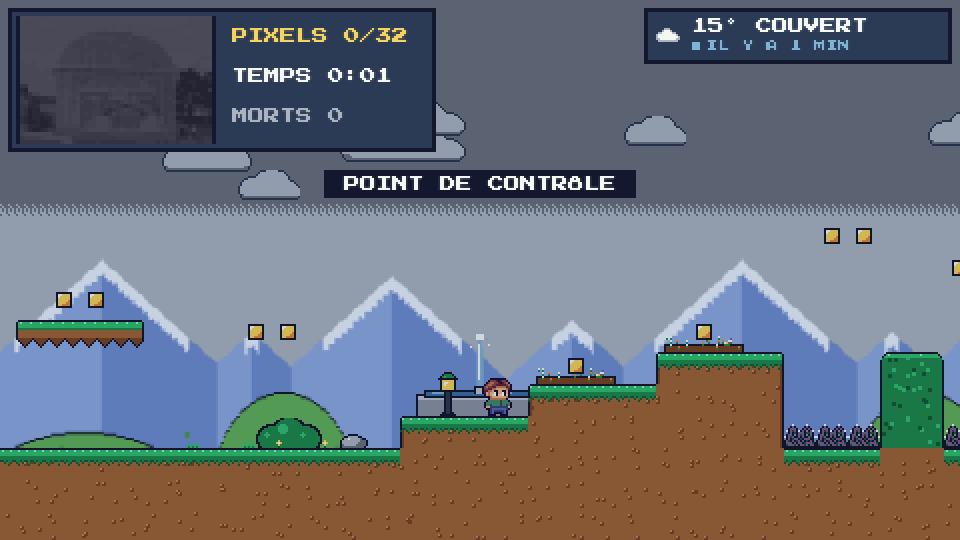
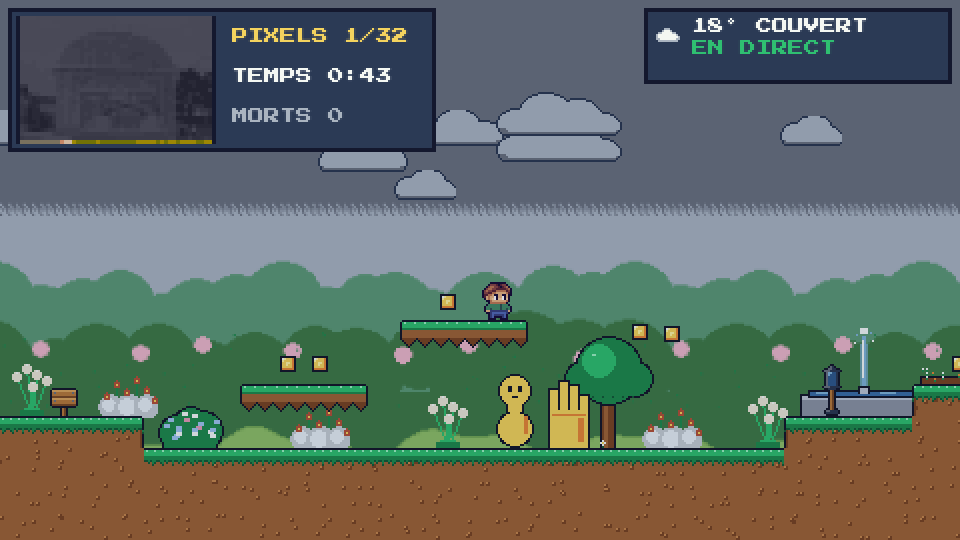
Docs : README et crédits pour les nouveaux décors du Jardin et du Château
- README : nouvelle ligne « décor propre à chaque lieu », numérotation des
  niveaux corrigée (2 Cathédrale, 3 Château), section Stack à jour.
- Captures : niveau-jardin.png remplacée, niveau-chateau.png ajoutée
  (salle des herses), 960×540.
- CREDITS : fond et salles du Château (références de dessin uniquement).

diff --git a/README.md b/README.md
@@ -11,8 +11,8 @@ Un jeu de plateforme pixel art qui suit la **ligne verte** de Nantes. De lieu en
 | La carte du monde | 1 · Jardin des Plantes |
 |---|---|
 | ![Carte du monde](docs/screenshots/carte.png) | ![Niveau du Jardin des Plantes](docs/screenshots/niveau-jardin.png) |
-| **2 · Château** : s'accroupir sous les flèches (ici sous la pluie) | **3 · Cathédrale** : grimper aux colonnes, s'accrocher aux rebords |
-| ![Château sous la pluie](docs/screenshots/niveau-chateau-pluie.png) | ![Cathédrale](docs/screenshots/niveau-cathedrale.png) |
+| **2 · Cathédrale** : grimper aux colonnes, s'accrocher aux rebords | **3 · Château** : du châtelet aux herses à la salle des gardes, en intérieur |
+| ![Cathédrale](docs/screenshots/niveau-cathedrale.png) | ![Château, salle des herses](docs/screenshots/niveau-chateau.png) |
 | **4 · Bouffay** : les étals bougent | **Sur téléphone, en paysage** |
 | ![Bouffay](docs/screenshots/niveau-bouffay.png) | ![Contrôles tactiles](docs/screenshots/mobile-paysage.png) |
 
@@ -32,6 +32,7 @@ Un jeu de plateforme pixel art qui suit la **ligne verte** de Nantes. De lieu en
   | Grand soleil | Jardin : des fleurs deviennent des plateformes (raccourcis) |
 
   Chaque effet est borné : on peut toujours contrer le vent, et chaque niveau reste finissable (vérifié par script sous pluie, vent et neige).
+- **Un décor propre à chaque lieu** : le **Jardin des Plantes** est un vrai parc (rangées d'arbres, magnolias, massifs, hortensias, hautes herbes) où l'on croise des silhouettes colorées inspirées des sculptures de l'été au jardin ; le **Château** se traverse de la cour, avec ses tours de schiste et son logis blanc en tuffeau, jusqu'aux **salles intérieures** (châtelet aux herses, puis salle des gardes avec sa cheminée). Tout est dessiné par code, sans image externe.
 - **Ton avatar** : coiffure, yeux, peau, tenue, chaussures, ou un des 8 modèles.
 
 ## Les 12 lieux
@@ -92,13 +93,13 @@ puis http://localhost:8123. **Mode test** : ajouter `?dev=1` à l'adresse (W : m
 - Niveaux 5 à 12 à venir.
 
 ## Stack
-Phaser 3.90 (inclus en local), JavaScript natif en scripts classiques (pas de build, compatible `file://`), police Press Start 2P, résolution 480×270 agrandie sans lissage. Tout le décor vient de planches de sprites en texte (une lettre = une couleur d'une palette de 35) transformées en textures au démarrage. Déploiement statique sur Vercel.
+Phaser 3.90 (inclus en local), JavaScript natif en scripts classiques (pas de build, compatible `file://`), police Press Start 2P, résolution 480×270 agrandie sans lissage. Le décor vient de planches de sprites en texte (une lettre = une couleur d'une palette de 35) transformées en textures au démarrage ; les fonds du Jardin et du Château, les silhouettes, les plantes et les salles intérieures sont dessinés par code (`GP.PixelArt`, `js/systems/LevelArt.js`). Déploiement statique sur Vercel.
 
 ```
 index.html               page, icônes, écran « tournez votre téléphone »
 js/config.js             réglages, palette, mode test (?dev=1)
 js/data/                 locations.js (12 lieux), levels.js (niveaux), sprites/ (planches importées), lang/ (fr.js, en.js)
-js/systems/              I18n (FR/EN), Settings (langue, touches), Controls (clavier réaffectable, manette), Cloud + Account (pseudo, sauvegarde, classement Supabase), Sprites, MapArt (carte), LevelArt (ciel, décor), WeatherManager / WeatherFX / WeatherRules (météo en direct → règles de jeu),
+js/systems/              I18n (FR/EN), Settings (langue, touches), Controls (clavier réaffectable, manette), Cloud + Account (pseudo, sauvegarde, classement Supabase), Sprites, MapArt (carte), LevelArt (ciel, décors, fonds de parc et de château, salles intérieures), WeatherManager / WeatherFX / WeatherRules (météo en direct → règles de jeu),
                          PixelCollection (photo à reconstruire), Save / Progression / Stars, Ui (fenêtres, aide, tactile)
 js/scenes/               Boot, Menu, Character (avatar), Options, Score (classement), Map, Game (moteur de plateforme), Result
 assets/                  police, logo et icônes, photos pixélisées (assets/locations/*.js)
@@ -110,4 +111,5 @@ tools/                   import-sprites.js, pixelize.swift, favicon.swift, compa
 - **Florine RACINE** — UX/UI Designer, Game Design · **Loan PLEURMEAU** — Développeur web, IA Ops (ESD Nantes, atelier PATRIMOINE.EXE).
 - **Usage de l'IA** : le code a été écrit avec Claude Code (Anthropic) sous la direction de l'équipe, qui le relit et sait l'expliquer (des *skills* Phaser, lus avant installation, servent de référence pour éviter les bugs 2D courants) ; les planches de sprites de décor ont été générées avec Claude Design puis importées telles quelles ; le sprite de l'avatar vient du fichier Figma de l'équipe.
 - Photo du Palmarium : Pymouss44, CC BY-SA 3.0, via Wikimedia Commons, recadrée et pixélisée. Données météo : Open-Meteo (CC BY 4.0). Police Press Start 2P (OFL). Phaser (MIT).
+- Silhouettes du Jardin : dessins originaux de l'équipe, **inspirés** des sculptures colorées de l'été au Jardin des Plantes (personnages de Jean Jullien, oiseau en topiaire) ; aucune photo ni image des œuvres n'est reprise.
 - Détails, licences et obligations : [CREDITS.md](CREDITS.md).

diff --git a/CREDITS.md b/CREDITS.md
@@ -46,4 +46,5 @@ Carte du monde, décor des niveaux (sol, pavés, arbres, ronces, lanternes, ciel
 Les photos de repérage de la gare de Nantes et du Jardin des Plantes (arrêt de tram, bâtiment de verre, pin, bassin, massifs, topiaires, personnage en bois) ont servi de **référence de dessin uniquement** ; aucune n'est intégrée au jeu.
 Les **topiaires** et le personnage en bois du jardin sont des œuvres d'artistes vivants, protégées : le jeu les évoque par des formes génériques (butte de feuillage arrondie, silhouette de bois simple) **sans les copier**.
 **Silhouettes du niveau 1** (`lv_sil_orange`, `lv_sil_jaune`, `lv_sil_ruban`, `lv_sil_oiseau`) : dessins originaux de l'équipe, en pixel art, **inspirés** des sculptures colorées installées au Jardin des Plantes (personnages de **Jean Jullien**, oiseau en topiaire évoquant l'univers de **Claude Ponti**). Ce sont des formes très simplifiées, redessinées de zéro : aucune photo ni aucune image des œuvres n'est reprise ni intégrée. Ces rapprochements (artistes, titres exacts des œuvres) sont à confirmer dans `docs/sources.md` avant la présentation.
+**Fond et salles du Château** (`lv_fond_chateau`, `lv_salle_herses`, `lv_salle_gardes`) : dessinés par code, d'après des descriptions de l'architecture du château (Wikipédia) et des vues consultées sur Wikimedia Commons, utilisées comme **référence de dessin uniquement** : aucune image n'est téléchargée ni intégrée.
 Les captures de référence fournies (cartes de monde et niveaux de jeux de plateforme, jeux en vue de dessus, planches de touches de clavier) ont servi **d'inspiration uniquement** : aucun élément n'en est repris. Certaines portent des filigranes de banques d'images : elles ne sont ni intégrées au jeu ni diffusées.
